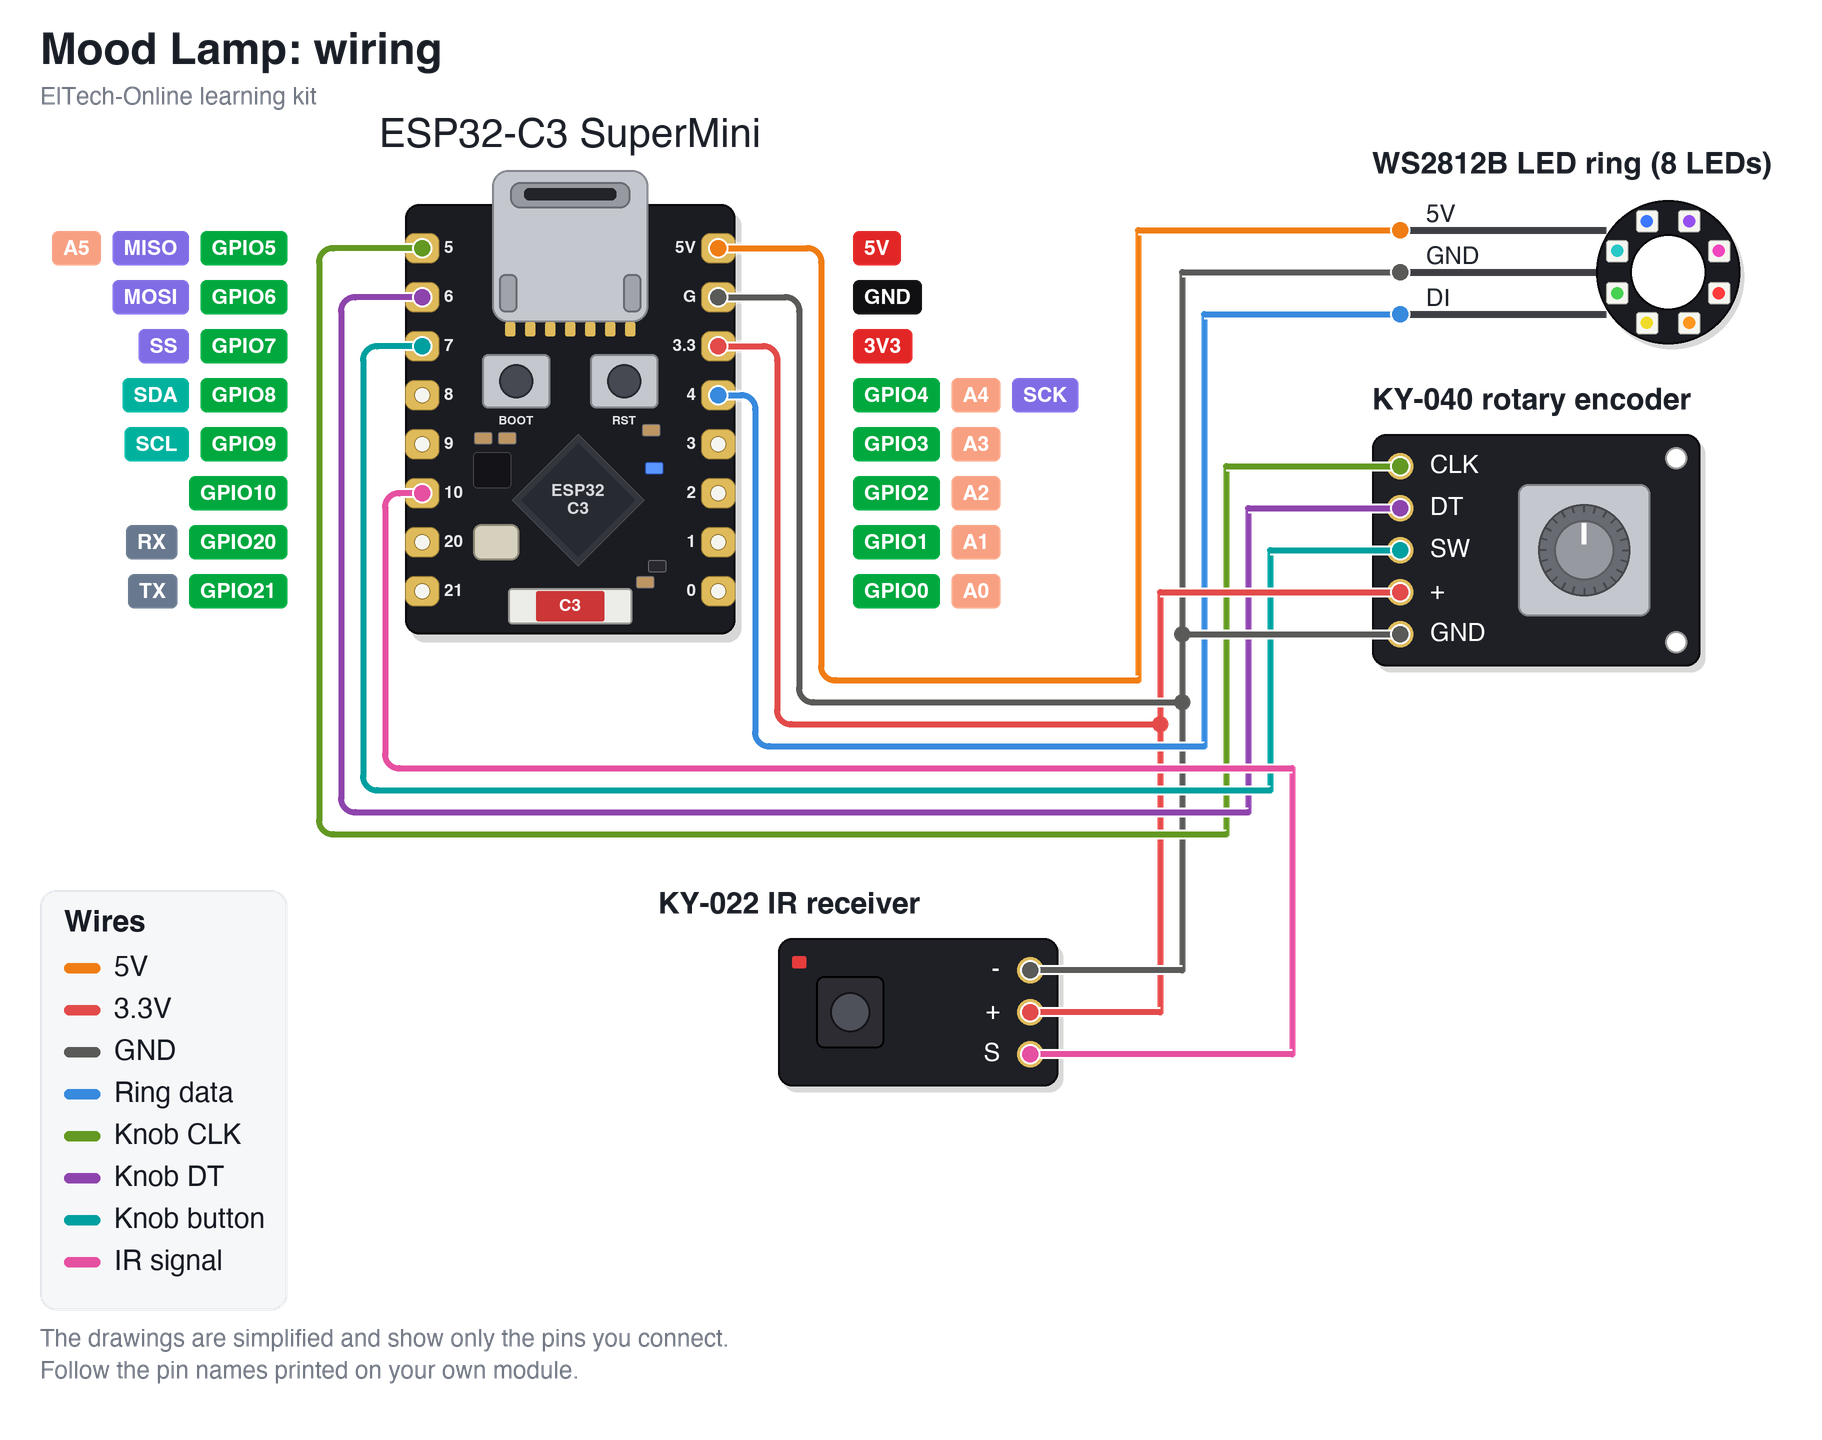
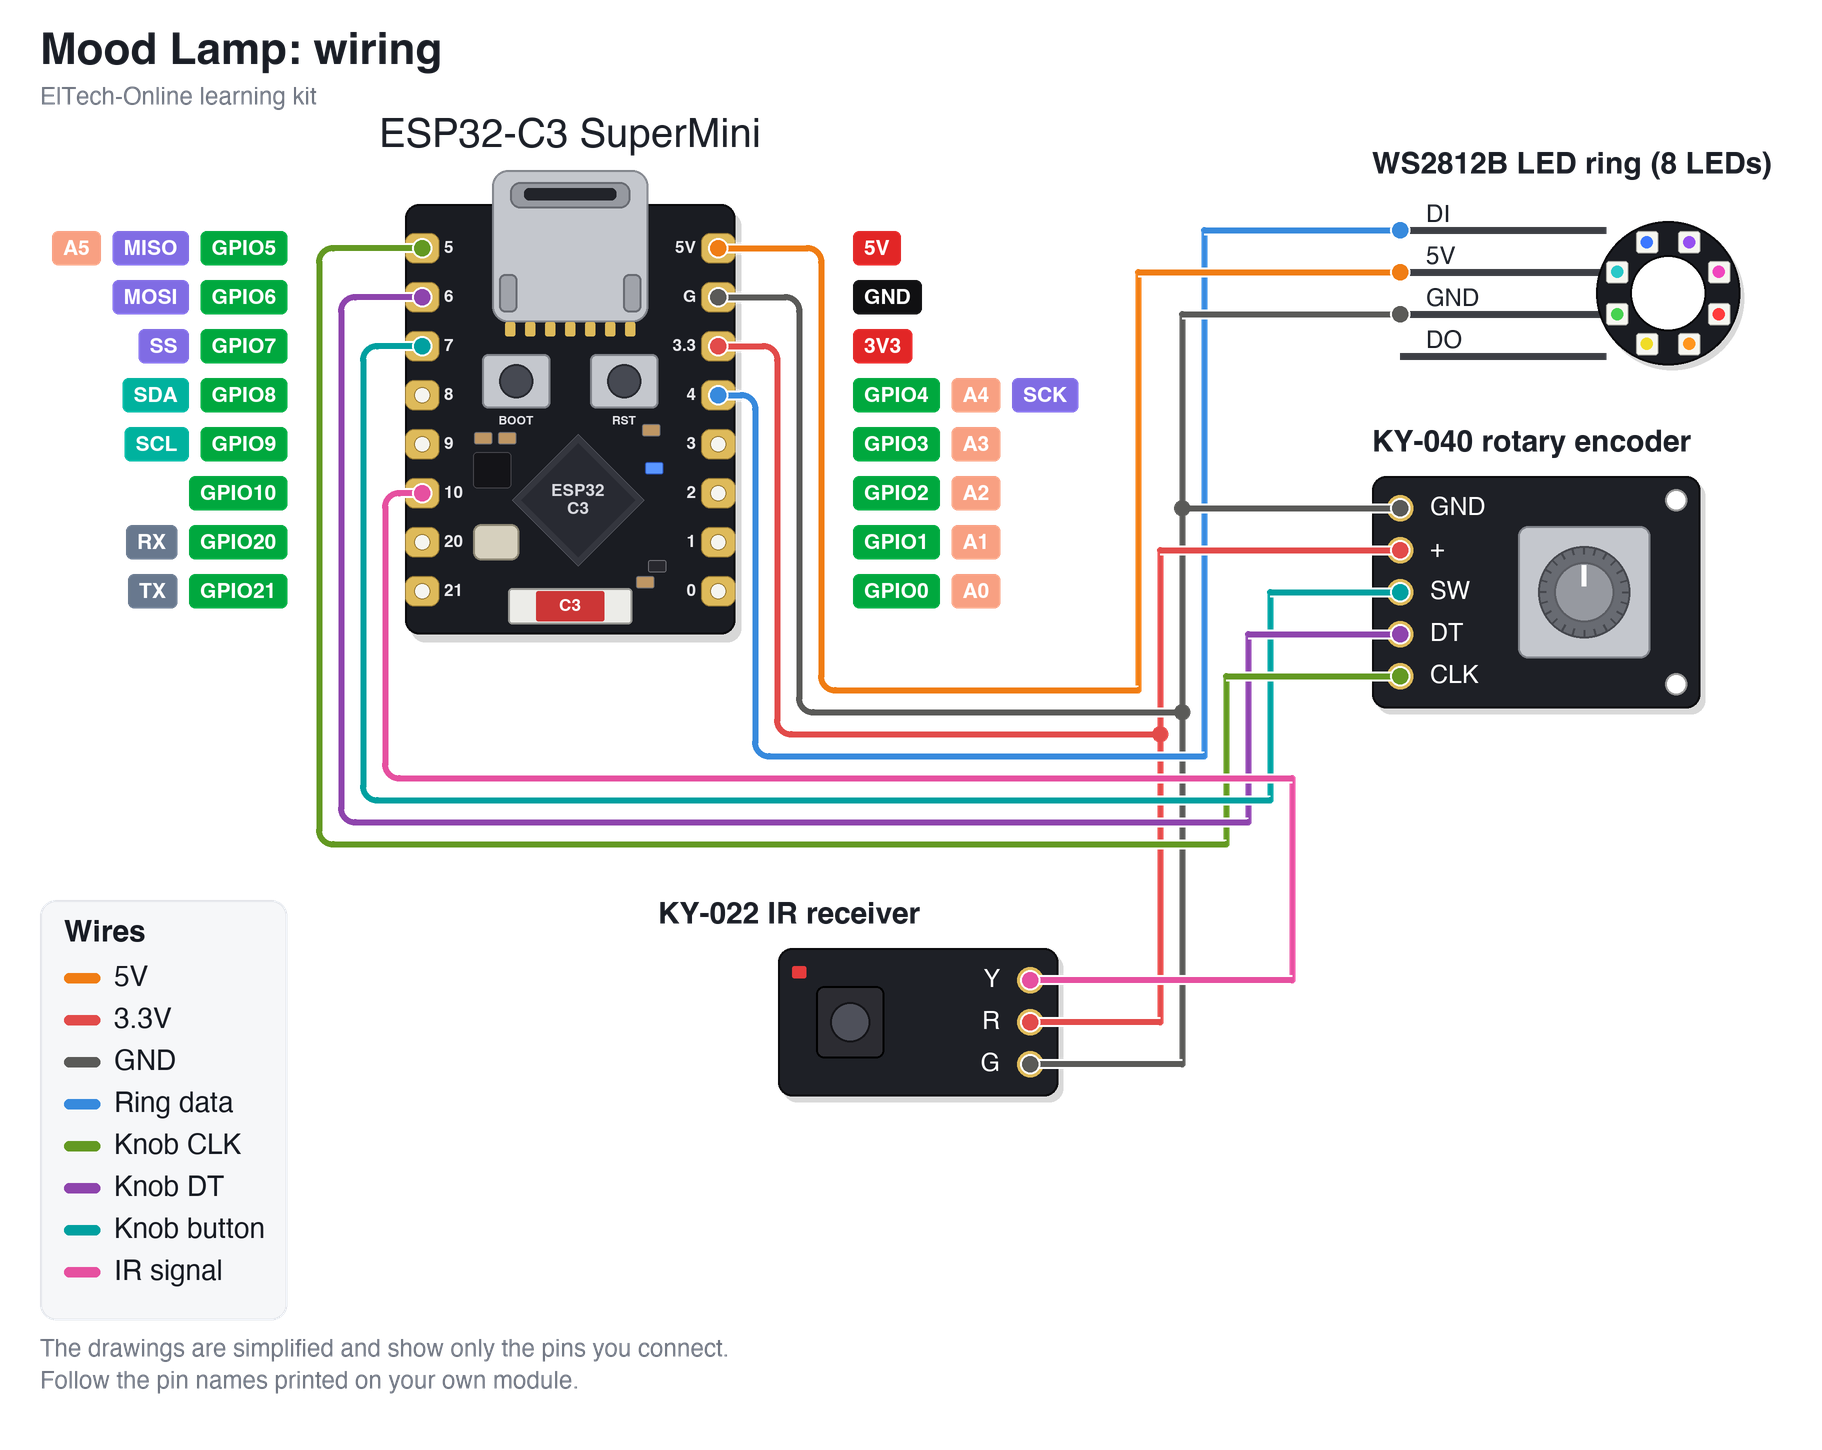
Knob: follow both wires so contact bounce no longer steps the wrong way; wiring diagram and README use the pin order printed on the real parts

diff --git a/README.md b/README.md
@@ -31,7 +31,7 @@ The code is written to be read: every section is commented in plain language, an
 
 **The LED ring.** Each WS2812B LED has a tiny chip inside. The board sends a stream of colour values down one data wire; the first LED keeps the first value and passes the rest on, the second LED does the same, and so on round the ring. That is why three wires are enough for any number of LEDs.
 
-**The knob.** A rotary encoder has no end stops and no "position". Inside are two switches, CLK and DT, that open and close one after the other as it turns. Which one changes first tells you the direction. A click is over in a few milliseconds, so the sketch uses an *interrupt*: the board drops what it is doing the instant CLK changes.
+**The knob.** A rotary encoder has no end stops and no "position". Inside are two switches, CLK and DT, that open and close one after the other as it turns. Which one changes first tells you the direction. A click is over in a few milliseconds, so the sketch uses an *interrupt*: the board drops what it is doing the instant either wire changes. Switches *bounce* (chatter for a millisecond), so the sketch follows every move of both wires and only counts a full click.
 
 **The remote.** A remote flashes an invisible infrared LED. The receiver turns the flashes into a wire that goes LOW while the remote is flashing. Most remotes use the **NEC** code, where everything is in the timing between one fall of the wire and the next: 13.5 ms starts a button press, 1.125 ms is a 0 bit, 2.25 ms is a 1 bit. 32 bits make the button's code. The sketch decodes this itself, in about 30 lines, with no library.
 
@@ -68,9 +68,9 @@ There are **two sketches** in this repo:
 | Component | Notes |
 |---|---|
 | ESP32-C3 SuperMini |  |
-| WS2812B LED ring, 8 LEDs | Pads marked `5V` (or `VCC`), `GND` and `DI`. Use `DI` (data in), not `DO`. |
+| WS2812B LED ring, 8 LEDs | 4 pins: `DI`, `5V`, `GND`, `DO`. Use `DI` (data in). `DO` (data out) stays empty. |
 | KY-040 rotary encoder module | 5 pins: `CLK`, `DT`, `SW`, `+`, `GND` |
-| KY-022 infrared receiver module | 3 pins: `S`, `+` (middle) and `-` |
+| KY-022 infrared receiver module | 3 pins: `G` (ground), `R` (power, middle) and `Y` (signal). Some boards print `-`, `+` and `S` instead |
 | Breadboard + jumper wires | 11 wires |
 | Any infrared remote | Not in the kit: use a TV, media-player or LED-strip remote you already have |
 
@@ -79,13 +79,13 @@ There are **two sketches** in this repo:
 | Wire | ESP32-C3 pin | Connects to |
 |---|---|---|
 | 5V | 5V | WS2812B LED ring `5V` |
-| 3.3V | 3V3 | KY-040 rotary encoder `+`, KY-022 IR receiver `+` |
-| GND | GND | WS2812B LED ring `GND`, KY-040 rotary encoder `GND`, KY-022 IR receiver `-` |
+| 3.3V | 3V3 | KY-040 rotary encoder `+`, KY-022 IR receiver `R` |
+| GND | GND | WS2812B LED ring `GND`, KY-040 rotary encoder `GND`, KY-022 IR receiver `G` |
 | Ring data | GPIO 4 | WS2812B LED ring `DI` |
 | Knob CLK | GPIO 5 | KY-040 rotary encoder `CLK` |
 | Knob DT | GPIO 6 | KY-040 rotary encoder `DT` |
 | Knob button | GPIO 7 | KY-040 rotary encoder `SW` |
-| IR signal | GPIO 10 | KY-022 IR receiver `S` |
+| IR signal | GPIO 10 | KY-022 IR receiver `Y` |
 
 ![Wiring diagram: Mood Lamp](wiring_diagram.png)
 
